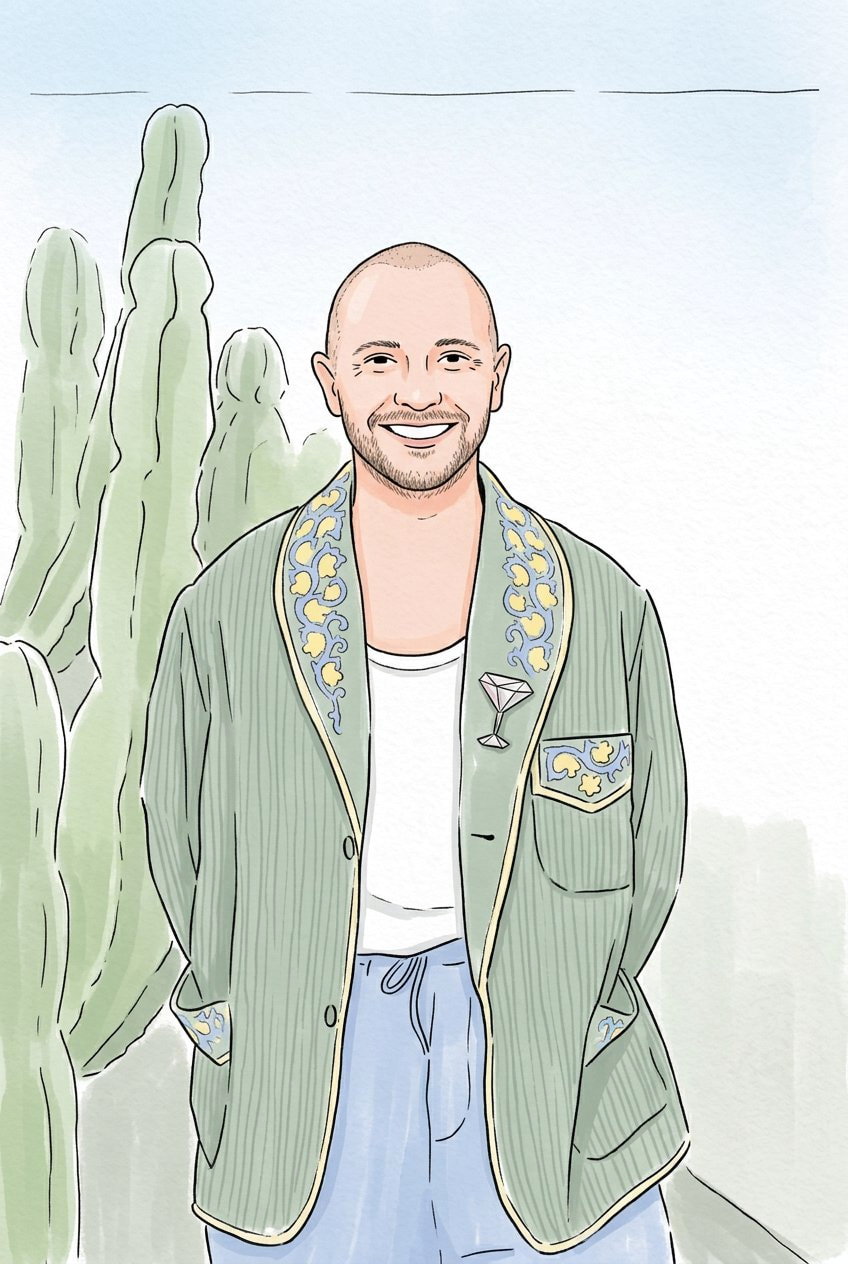
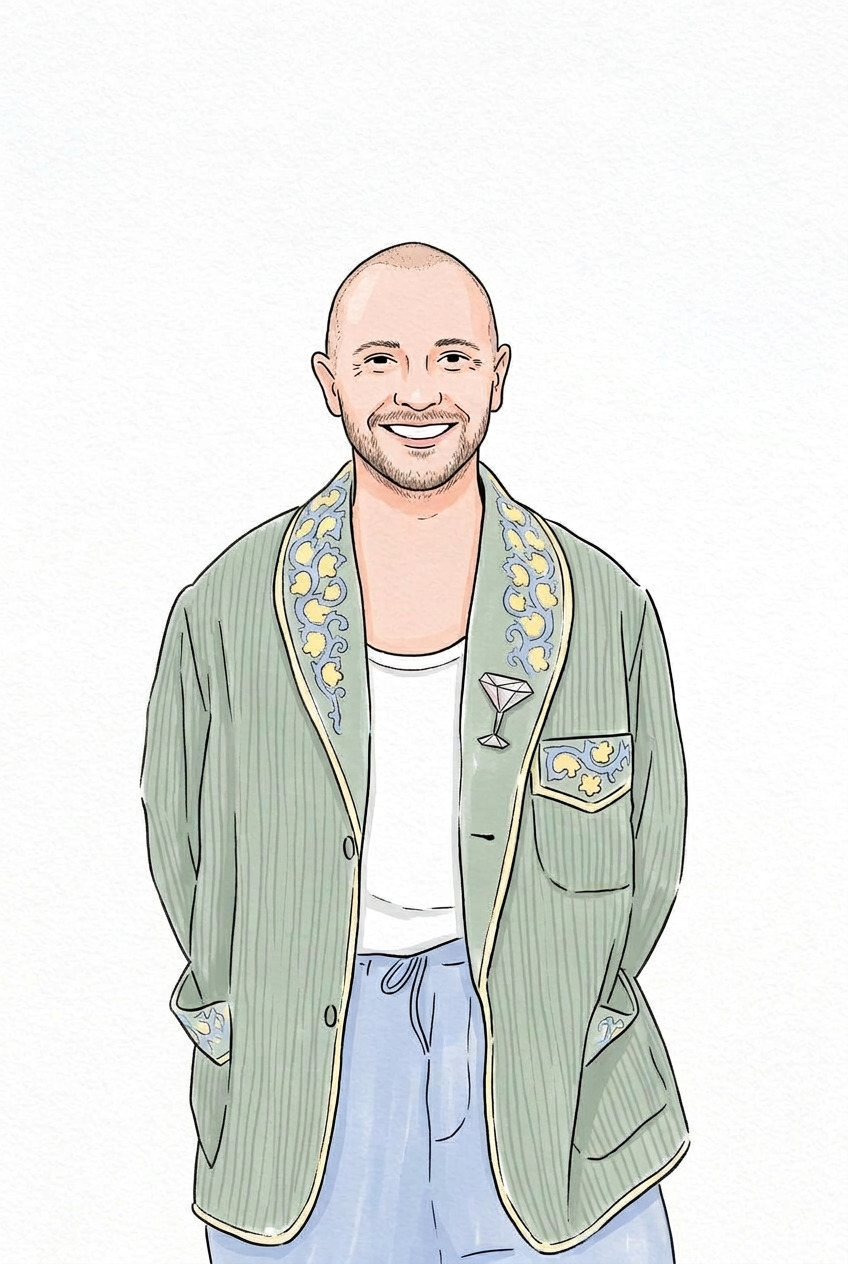
Take the last two pastel grounds off the portraits
Redzepi and Savage were the only portraits still carrying a coloured wash
behind the figure. On a page that multiplies the artwork into the surface a
wash does not read as a soft background, it reads as a halo. Both are white
paper now, and the Redzepi apron knot is signal red again, since the redraw
had silently dropped the series' one accent.

diff --git a/presentation/build/illustration-audit.md b/presentation/build/illustration-audit.md
@@ -490,3 +490,18 @@ Both applied on 29 October 2026 to the two portraits that were drawn last and sh
 clearly — `illo-figure-kratena.jpg` and `illo-figure-narzi.jpg` are now full-length figures with a closed
 contour and one flat shadow under the shoes. The other ten portraits are close crops where the crop itself
 is the edge, so they do not need the shadow; they were checked and left alone.
+
+### 10.7 Pastel grounds removed from two portraits
+
+§2.9 of this audit recorded pale washes behind several portraits and asked for them to return to white
+paper. Two of them were still washed after the redraws, and both were fixed on 29 October 2026:
+
+- `illo-figure-redzepi.jpg` — the pale green and pale blue wash behind the chef is gone. Redrawing it
+  also dropped the single red accent (the apron knot came back grey), so the knot is redrawn in the
+  signal red the series requires; it is now the only saturated colour in the file besides his tee.
+- `illo-figure-savage.jpg` — the desert backdrop (pale blue sky, green cacti, pale ground) is gone. The
+  figure, his jacket and his pose are untouched.
+
+This matters beyond tidiness: the app multiplies every drawing into the page, so a wash does not read as
+"a soft background" in the product — it reads as a pale halo around the person. White paper is the only
+background that disappears.

diff --git a/README.md b/README.md
@@ -258,6 +258,10 @@ judged by (obvious resemblance, one hand across the series) and names the four f
 `illo-figure-narzi.jpg`, `illo-figure-dave-arnold.jpg`, `illo-lesson-scenography.jpg` and
 `illo-lesson-final-brief.jpg` — which are redrawn next, in the thin-line hand of their own set.
 
+**Two portraits lost their pastel grounds, 29 October 2026.** `illo-figure-redzepi.jpg` and
+`illo-figure-savage.jpg` were the last two portraits still carrying a coloured wash behind the figure; both
+are white paper now, and the Redzepi apron knot was redrawn in the signal red the redraw had dropped.
+
 **Still open after this pass.** In order: (1) ~~the four wrong-hand files above~~ — done 29 October 2026, all
 four redrawn thin and light in the hand of their own set, and `illo-figure-kratena.jpg` re-framed from
 768 × 1376 to the series' 848 × 1264; (2) ~~the two case cards that still read as the wrong place — `illo-case-sensory-talalay.jpg` and
